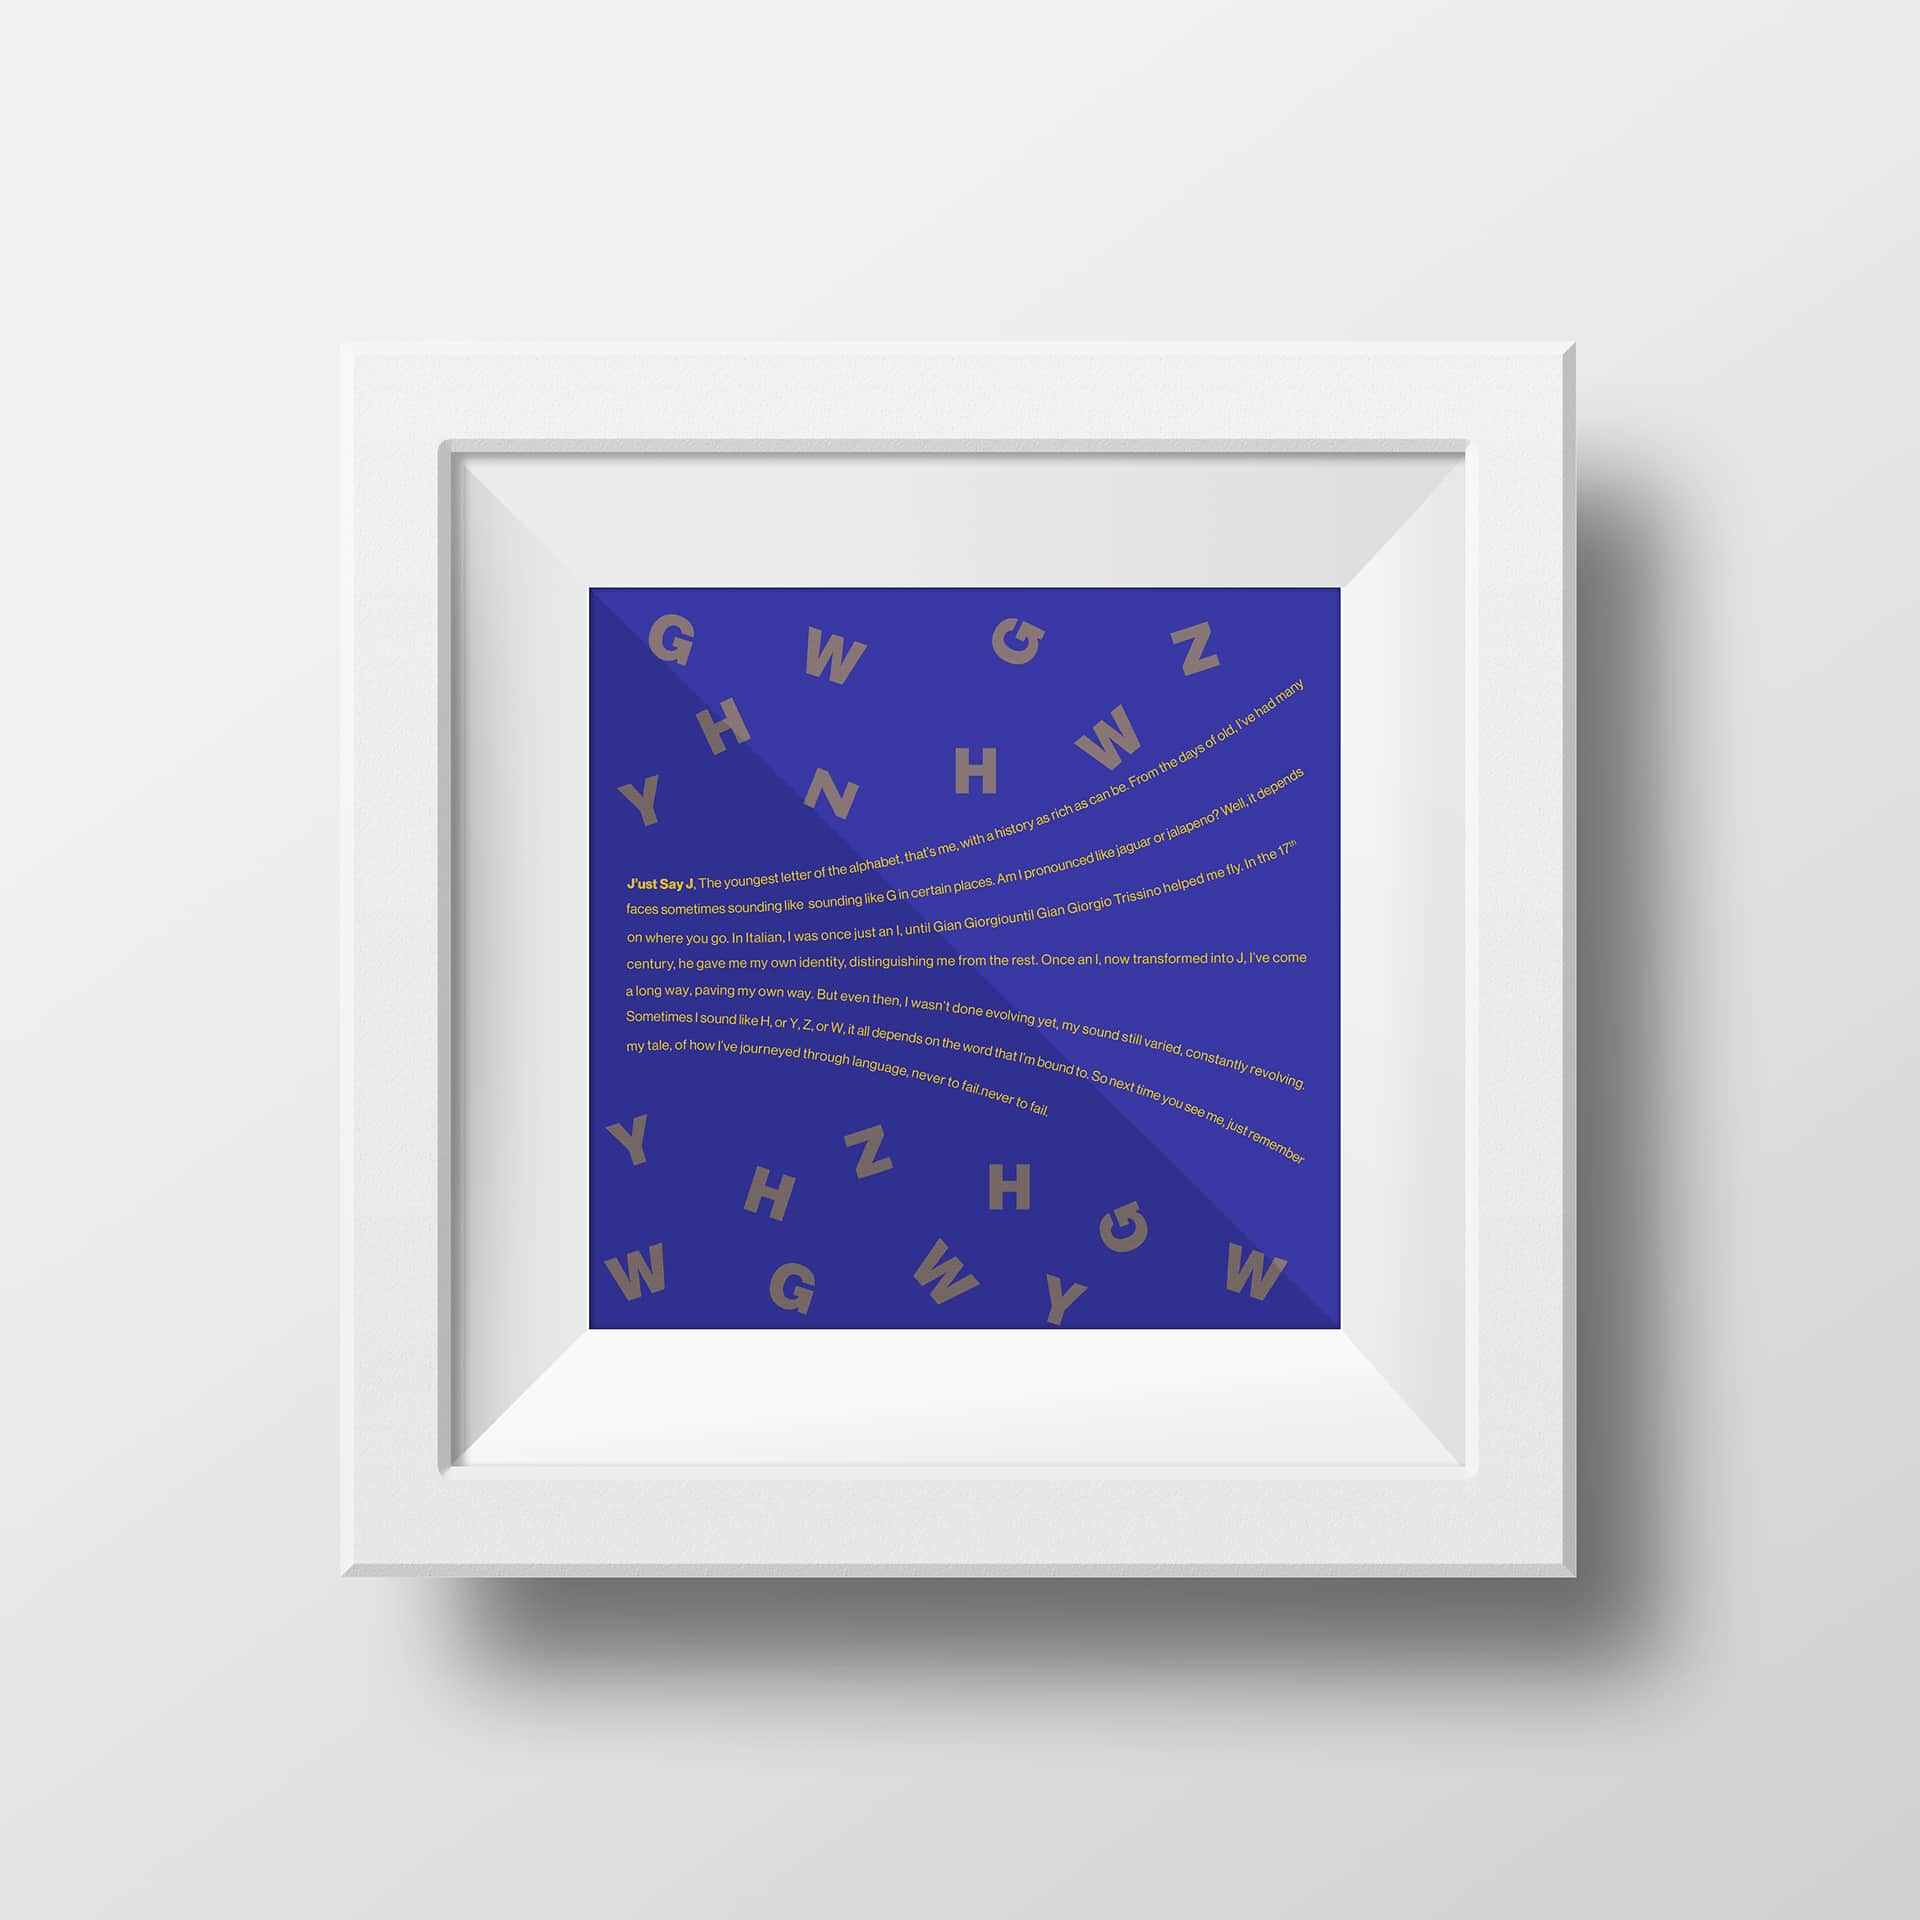
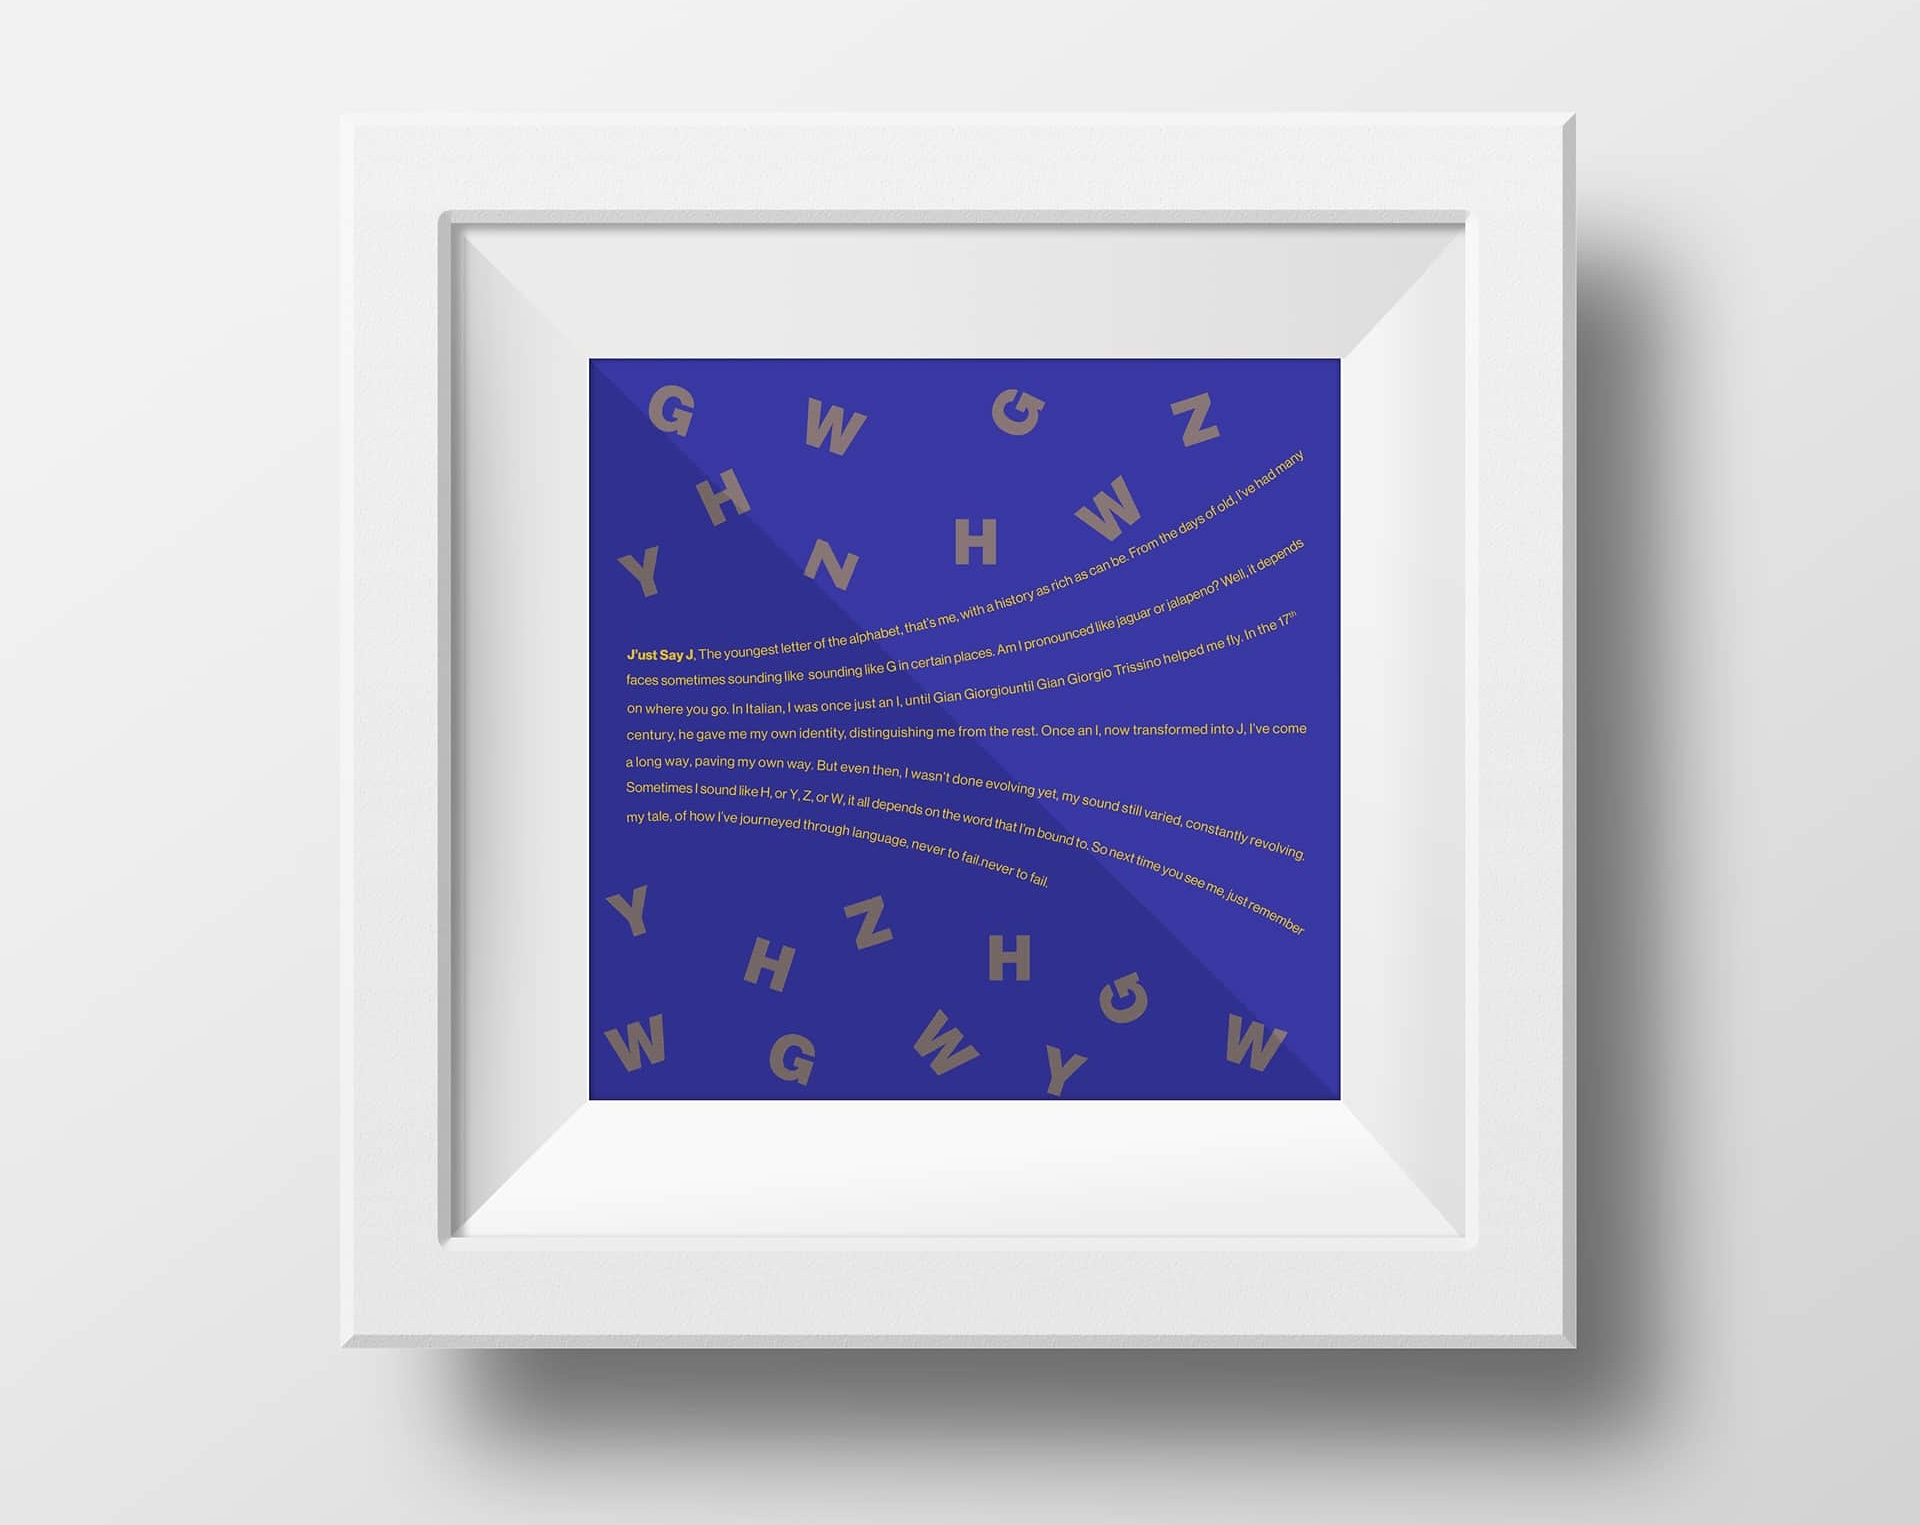
MultiImage spacing adjusted, new animation on load, cropped mocked up images

diff --git a/src/Home/Home.jsx b/src/Home/Home.jsx
@@ -1,32 +1,39 @@
 import Hero from "./Hero.jsx";
 import Box from "./Box.jsx";
 import InProgress from "./Other.jsx";
-import { projectPairs, InProgressProjectPairs, inProgressInfo} from "./HomeInfo.js";
+import {
+  projectPairs,
+  InProgressProjectPairs,
+  inProgressInfo,
+} from "./HomeInfo.js";
 import Footer from "../Components/Footer.jsx";
 import ProjectBoxes from "./ProjectBoxes.jsx";
-
+import "./Home.css";
 
 export default function Home() {
   return (
     <>
       <Hero />
-      {projectPairs.map((pair, index) => (
-        <Box
-          key={index}
-          title={pair.left.title}
-          position={pair.left.position}
-          image={pair.left.image}
-          bgColor={pair.left.bgColor}
-          grow={pair.left.grow}
-          link={pair.left.link}
-          title2={pair.right.title}
-          position2={pair.right.position}
-          image2={pair.right.image}
-          bgColor2={pair.right.bgColor}
-          grow2={pair.right.grow}
-          link2={pair.right.link}
-        />
-      ))}
+      <div className="Work">
+        {projectPairs.map((pair, index) => (
+          <Box
+            key={index}
+            title={pair.left.title}
+            position={pair.left.position}
+            image={pair.left.image}
+            bgColor={pair.left.bgColor}
+            grow={pair.left.grow}
+            link={pair.left.link}
+            title2={pair.right.title}
+            position2={pair.right.position}
+            image2={pair.right.image}
+            bgColor2={pair.right.bgColor}
+            grow2={pair.right.grow}
+            link2={pair.right.link}
+          />
+        ))}
+      </div>
+
       <InProgress props={inProgressInfo} />
       {InProgressProjectPairs.map((pair, index) => (
         <ProjectBoxes

diff --git a/src/Components/MultiImageStyle.module.css b/src/Components/MultiImageStyle.module.css
@@ -2,8 +2,8 @@
   display: flex;
   align-items: center;
   justify-content: center;
-  padding-left: 22px;
-  padding-right: 22px;
+  padding-left: 26px;
+  padding-right: 26px;
   margin-top: 45px;
   gap: 1em;
 }
@@ -20,8 +20,8 @@
 }
 
 .ImageContainer > figure {
-  max-width: 550px;
-  width: 32%;
+  max-width: 543px;
+  width: 50%;
   display: flex;
   flex-direction: column;
 }
@@ -52,14 +52,13 @@
   }
 }
 
-@media (max-width: 768px) {
+@media (max-width: 640px) {
   .ImageContainer {
     flex-direction: column;
-    padding-left: 0;
-    padding-right: 0;
   }
 
   .ImageContainer > figure {
-    width: 80%;
+    width: 100%;
+    max-width: none;
   }
 }

diff --git a/src/Home/Home.css b/src/Home/Home.css
@@ -1,0 +1,15 @@
+.Work {
+  opacity: 0;
+  animation: fadeUp 0.65s ease 400ms forwards; 
+}
+
+@keyframes fadeUp {
+  from {
+    opacity: 0;
+    transform: translateY(30px);
+  }
+  to {
+    opacity: 1;
+    transform: translateY(0);
+  }
+}

diff --git a/src/Components/TechStackStyle.module.css b/src/Components/TechStackStyle.module.css
@@ -23,7 +23,7 @@
   text-align: center;
   color: #285545;
   font-family: "inter", sans-serif;
-  margin-bottom: 50px;
+  margin-bottom: 20px;
 }
 
 .logo:nth-child(2) {
@@ -62,14 +62,18 @@
 }
 
 @media screen and (max-width: 950px) {
-  .logo{
-      margin-top: 0%;
+  .logo {
+    margin-top: 0%;
   }
 }
 
 @media screen and (max-width: 500px) {
   .logo > img {
-    width: 100px;
-    height: 100px;
+    width: 80px;
+    height: 80px;
+    margin-bottom: 0px;
+  }
+  .logo > h3 {
+    font-size: 14px;
   }
 }

diff --git a/src/Home/Hero.css b/src/Home/Hero.css
@@ -28,11 +28,8 @@
   opacity: 0;
   color: var(--Heading);
   pointer-events: none;
-  animation-name: ScaleUp;
-  animation-duration: 500ms;
-  animation-fill-mode: forwards;
-
-  animation-delay: 800ms;
+  animation: ScaleUp 500ms forwards 800ms;
+  animation-timing-function: cubic-bezier(0.22, 1, 0.36, 1);
   z-index: 2;
 }
 
@@ -142,7 +139,7 @@
   .Hero--Content > h1 {
     font-size: 55px;
   }
-    .Hero--Content > p {
+  .Hero--Content > p {
     padding-left: 10px;
     padding-right: 10px;
   }
@@ -178,14 +175,14 @@
   -webkit-filter: blur(80px) saturate(1.2);
   filter: blur(80px) saturate(1.2);
   z-index: 0;
-  transform: translateZ(0); 
+  transform: translateZ(0);
 }
 
 .blob {
   position: absolute;
   border-radius: 50%;
   opacity: 0.5;
-  mix-blend-mode: multiply; 
+  mix-blend-mode: multiply;
   -webkit-backface-visibility: hidden;
   will-change: transform;
 }

diff --git a/src/Home/Box.css b/src/Home/Box.css
@@ -6,7 +6,6 @@
   align-items: center;
   padding-bottom: 100px;
   flex-wrap: wrap;
-  animation: fadeUp 1s ease forwards;
 }
 
 .Box--Content {
@@ -104,13 +103,4 @@
   }
 }
 
-@keyframes fadeUp {
-  from {
-    opacity: 0;
-    transform: translateY(30px);
-  }
-  to {
-    opacity: 1;
-    transform: translateY(0);
-  }
-}
+

diff --git a/src/Projects/Jupiter/Jupiter.js b/src/Projects/Jupiter/Jupiter.js
@@ -140,7 +140,6 @@ export const ImageMockups = [
   {
     img: Mockups,
     alt: "Mockup of Jupiter’s Hidden Worlds The Galilean Moons brochure",
-    width: "65%",
   },
 ];
 

diff --git a/src/Projects/LetterJ/LetterJ.js b/src/Projects/LetterJ/LetterJ.js
@@ -78,7 +78,6 @@ export const ImageMockups = [
   {
     img: Mockups,
     alt: "Mockup presentation of the Letter J poster series",
-    width: "65%",
   },
 ];
 